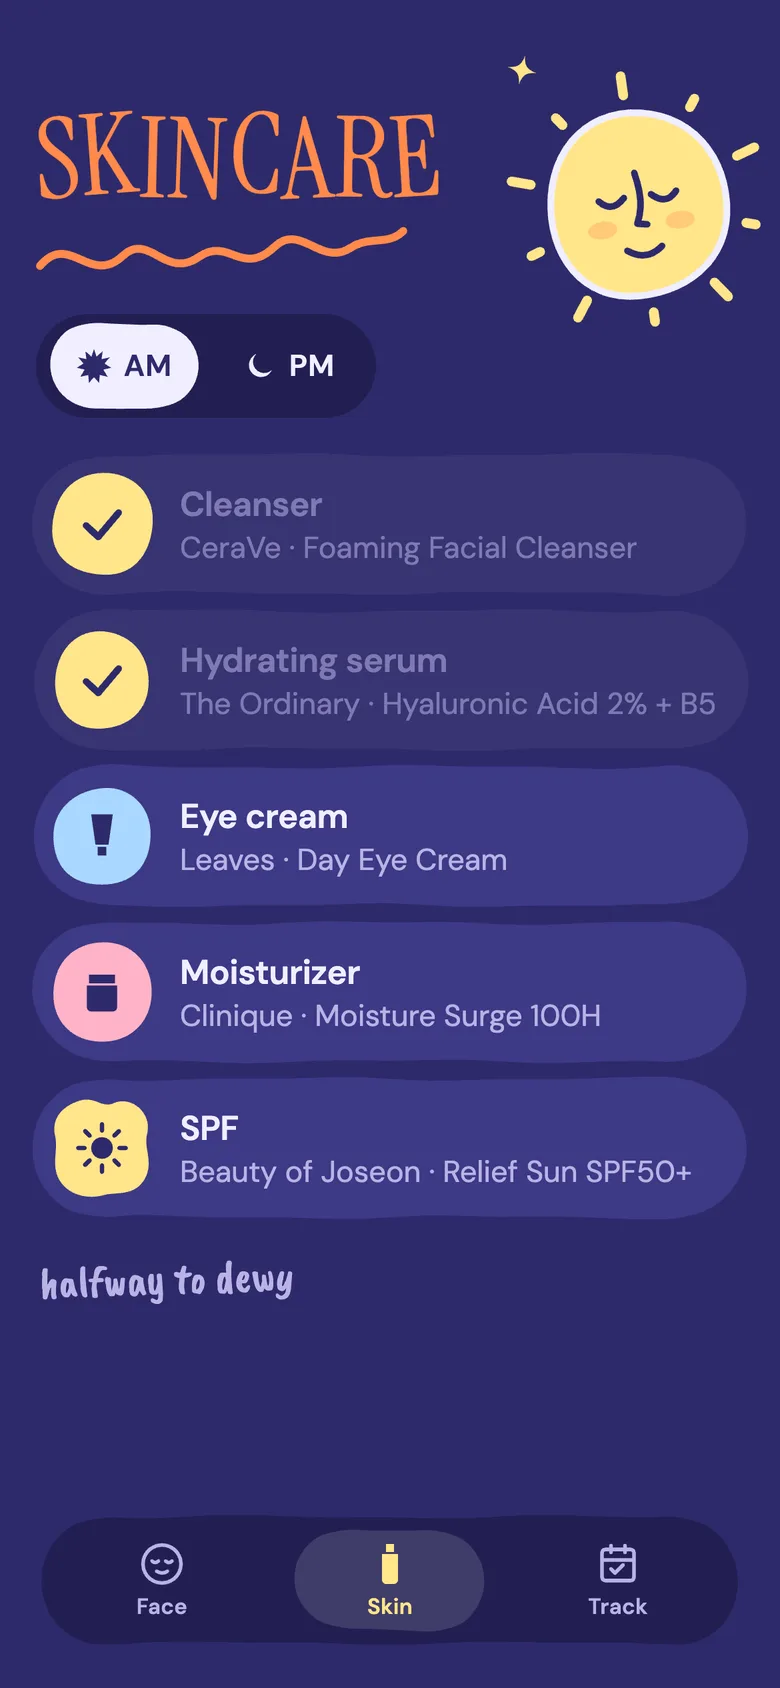
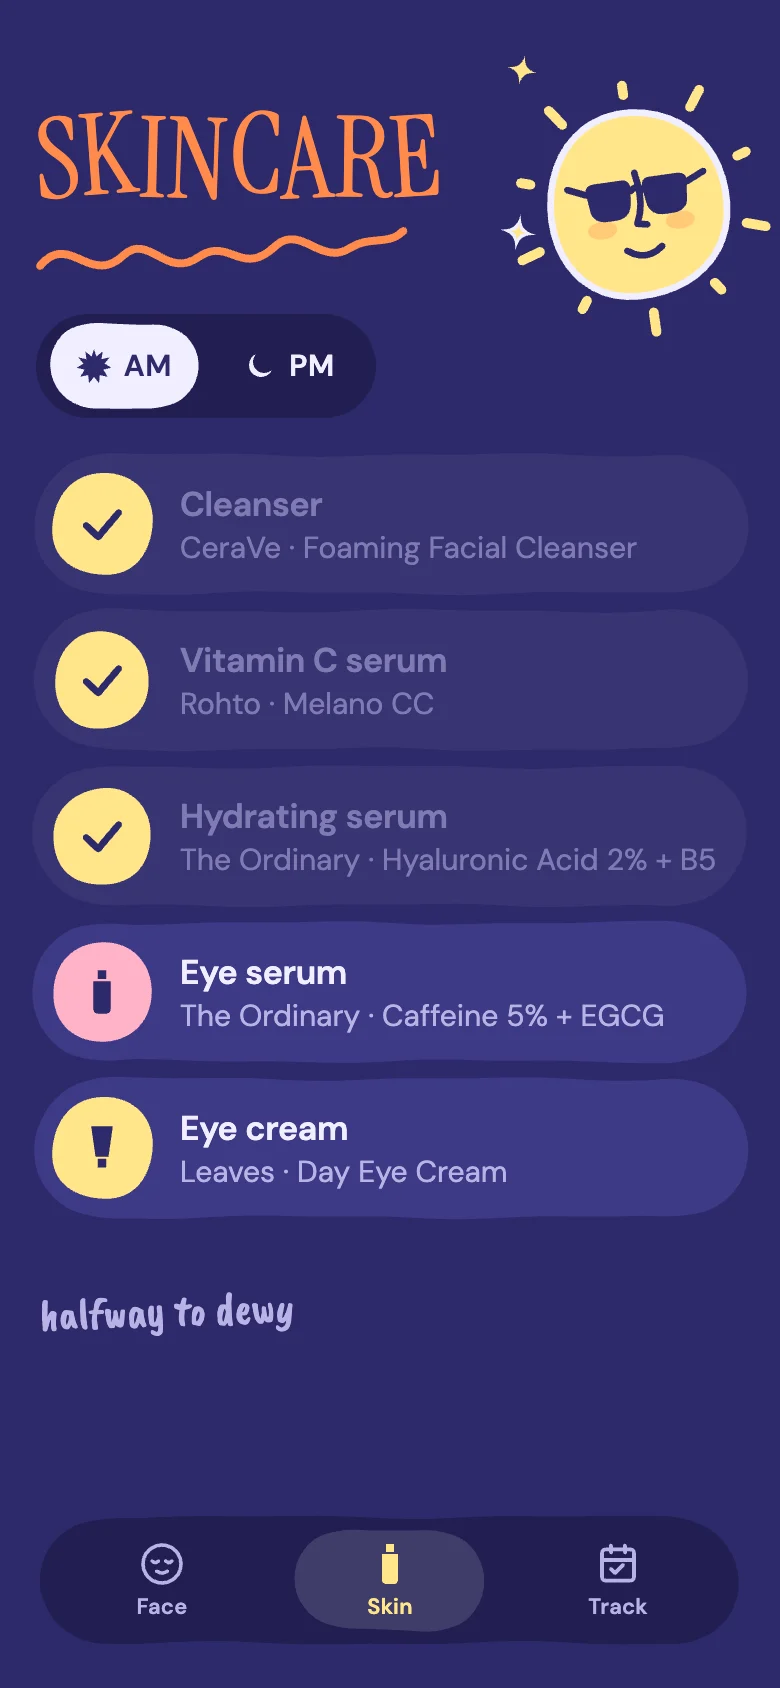
Dewy header: back to the three floating screens
The recording plays in the middle phone between Skincare and Tracking stills,
re-captured from the current app (sun in shades, a month of history), with
the QR in the corner. The 3D phone, logotype and faces leave the header.

diff --git a/projects/bloom.html b/projects/bloom.html
@@ -53,20 +53,11 @@
     box-shadow: 0 0 0 1px rgba(241,238,255,.14), 0 28px 60px rgba(12,8,48,.45); }
   .phone img, .phone video { width: 100%; height: 100%; object-fit: cover; display: block; }
 
-  /* ─── Project header: flat yellow, the app in a 3D iPhone running off the bottom edge, the logotype, three faces, the QR ─── */
-  .stage--bloom { aspect-ratio: 16 / 9; background: var(--iris); position: relative; overflow: hidden; }
-  .stage--bloom .logo { position: absolute; left: 7%; top: 40%; width: 40%; height: auto; transform: translateY(-50%); }
-  /* Light 3D phone: a rendered frame (images/process/bloom/iphone-3d.png, transparent screen) over the recording,
-     which a script maps onto the screen's four corners with one matrix3d, so it renders the same in every browser */
-  .phone3d { position: absolute; aspect-ratio: 441.5 / 904.46; }
-  .stage--bloom .phone3d { left: 54%; top: 8%; width: 30%; }
-  .p3-video { position: absolute; left: 0; top: 0; width: 390px; height: 844px; max-width: none; max-height: none; transform-origin: 0 0; object-fit: cover; background: var(--iris); }
-  .p3-frame { position: absolute; inset: 0; width: 100%; height: 100%; z-index: 1; filter: drop-shadow(0 30px 36px rgba(8, 5, 40, .5)); }
-  .face { position: absolute; height: auto; pointer-events: none; }
-  /* two faces stuck onto the phone's edges, like stickers */
-  .face { z-index: 2; }
-  .face--moon { width: 11%; left: 47%; top: 62%; rotate: -10deg; }
-  .face--sun { width: 14%; left: 82%; top: 34%; rotate: 10deg; }
+  /* ─── Project header: the app recording between two stills, the QR in the corner ─── */
+  .stage--bloom { aspect-ratio: 16 / 9; display: flex; justify-content: center; align-items: center; gap: 3.5%; }
+  .stage--bloom .phone { flex: 0 0 19%; }
+  .stage--bloom .phone--main { flex-basis: 24%; }
+  .stage--bloom .phone--side { opacity: .9; transform: translateY(6%); }
   .stage--bloom .qr { position: absolute; right: 22px; top: 22px; z-index: 2; }
   /* An iPhone in CSS: titanium edge, black bezel, dynamic island, side buttons. Used in the header and the live-app viewer. */
   .iphone { border-radius: 15% / 7%; padding: 2.6%; background: #0d0d10;
@@ -137,15 +128,14 @@
 
   @media (max-width: 860px) {
     .facts { grid-template-columns: 1fr 1fr; }
-    .stage--bloom { aspect-ratio: 4 / 5; }
-    .stage--bloom .logo { left: 50%; top: 6%; width: 70%; transform: translateX(-50%); }
-    .stage--bloom .phone3d { left: 18%; top: 30%; width: 62%; }
+    .stage--bloom { aspect-ratio: 4 / 5; gap: 4%; }
+    .stage--bloom .phone { flex-basis: 27%; }
+    .stage--bloom .phone--main { flex-basis: 46%; }
+    .stage--bloom .phone--side { transform: translateY(8%); }
     .headers { grid-template-columns: 1fr; gap: 10px; }
     .steps { gap: 8px; }
     .palette figure { width: 38%; }
     .palette { padding: 36px 0 28px; }
-    .face--moon { width: 20%; left: 9%; top: 62%; }
-    .face--sun { width: 26%; left: auto; right: 2%; top: 34%; }
     .qr { display: none; }   /* already on a phone: the button does it */
     .motion { grid-template-columns: 1fr; padding: 24px 20px; gap: 24px; }
     .motion .phone { width: 62%; margin: 0 auto; }
@@ -191,11 +181,10 @@
   </header>
 
   <div class="wrap">
-    <div class="stage stage--bloom">
-      <img class="logo" src="../images/process/bloom/dewy-lockup.png" alt="Dewy" width="1011" height="360">
-      <img class="face face--moon" src="../images/process/bloom/face-moon.png" alt="" aria-hidden="true">
-            <div class="phone3d"><video class="p3-video" src="../images/process/bloom/bloom-demo.mp4" poster="../images/process/bloom/bloom-demo-poster.jpg" muted loop playsinline autoplay aria-label="Screen recording: playing an exercise, ticking skincare steps, switching to evening, opening the streak calendar"></video><img class="p3-frame" src="../images/process/bloom/iphone-3d.png" alt="" aria-hidden="true"></div>
-      <img class="face face--sun" src="../images/process/bloom/face-sun.png" alt="" aria-hidden="true">
+    <div class="stage stage--bloom panel">
+      <span class="phone phone--side"><img src="../images/process/bloom/screen-skin-am.webp" alt="Skincare checklist, morning"></span>
+      <span class="phone phone--main"><video src="../images/process/bloom/bloom-demo.mp4" poster="../images/process/bloom/bloom-demo-poster.jpg" muted loop playsinline autoplay aria-label="Screen recording: playing an exercise, ticking skincare steps, switching to evening, opening the streak calendar"></video></span>
+      <span class="phone phone--side"><img src="../images/process/bloom/screen-track.webp" alt="Tracking: today's routines and the month calendar"></span>
       <a class="qr" href="https://bloom.arielmotion.workers.dev" target="_blank" rel="noopener"><img src="../images/process/bloom/qr-bloom.svg" alt="QR code for bloom.arielmotion.workers.dev"><span><b>Try it</b>Scan to open on your phone</span></a>
     </div>
     <p class="cap stage-cap"><span>Recorded in the app</span><span>Add to Home Screen and it opens full screen</span></p>
@@ -313,27 +302,6 @@
   })();
 </script>
 <script>
-  // Light 3D phone: map the 390 × 844 recording onto the rendered frame's screen corners (one matrix3d).
-  (function () {
-    var C = [[0.14433, 0.02239], [0.9605, 0.07943], [0.05202, 0.97749], [0.92965, 0.97619]];   // screen corners in the frame image: top-left, top-right, bottom-left, bottom-right (fractions)
-    function adj(m) { return [m[4]*m[8]-m[5]*m[7], m[2]*m[7]-m[1]*m[8], m[1]*m[5]-m[2]*m[4], m[5]*m[6]-m[3]*m[8], m[0]*m[8]-m[2]*m[6], m[2]*m[3]-m[0]*m[5], m[3]*m[7]-m[4]*m[6], m[1]*m[6]-m[0]*m[7], m[0]*m[4]-m[1]*m[3]]; }
-    function mm(a, b) { var c = []; for (var i = 0; i < 3; i++) for (var j = 0; j < 3; j++) { var t = 0; for (var k = 0; k < 3; k++) t += a[3*i+k] * b[3*k+j]; c[3*i+j] = t; } return c; }
-    function mv(m, v) { return [m[0]*v[0]+m[1]*v[1]+m[2]*v[2], m[3]*v[0]+m[4]*v[1]+m[5]*v[2], m[6]*v[0]+m[7]*v[1]+m[8]*v[2]]; }
-    function basis(p) { var m = [p[0], p[2], p[4], p[1], p[3], p[5], 1, 1, 1], v = mv(adj(m), [p[6], p[7], 1]); return mm(m, [v[0], 0, 0, 0, v[1], 0, 0, 0, v[2]]); }
-    document.querySelectorAll('.phone3d').forEach(function (box) {
-      var v = box.querySelector('.p3-video');
-      function fit() {
-        var W = box.clientWidth, H = box.clientHeight; if (!W) return;
-        var d = [C[0][0]*W, C[0][1]*H, C[1][0]*W, C[1][1]*H, C[2][0]*W, C[2][1]*H, C[3][0]*W, C[3][1]*H];
-        var t = mm(basis(d), adj(basis([0, 0, 390, 0, 0, 844, 390, 844])));
-        for (var i = 0; i < 9; i++) t[i] /= t[8];
-        v.style.transform = 'matrix3d(' + [t[0], t[3], 0, t[6], t[1], t[4], 0, t[7], 0, 0, 1, 0, t[2], t[5], 0, t[8]].join(',') + ')';
-      }
-      fit(); addEventListener('resize', fit);
-      if (window.ResizeObserver) new ResizeObserver(fit).observe(box);
-    });
-  })();
-
   // Desktop: "Open the app" shows the live app inside the iPhone at phone size, instead of a stretched browser tab.
   (function () {
     var dlg = document.querySelector('.app-view'); if (!dlg || !dlg.showModal) return;
